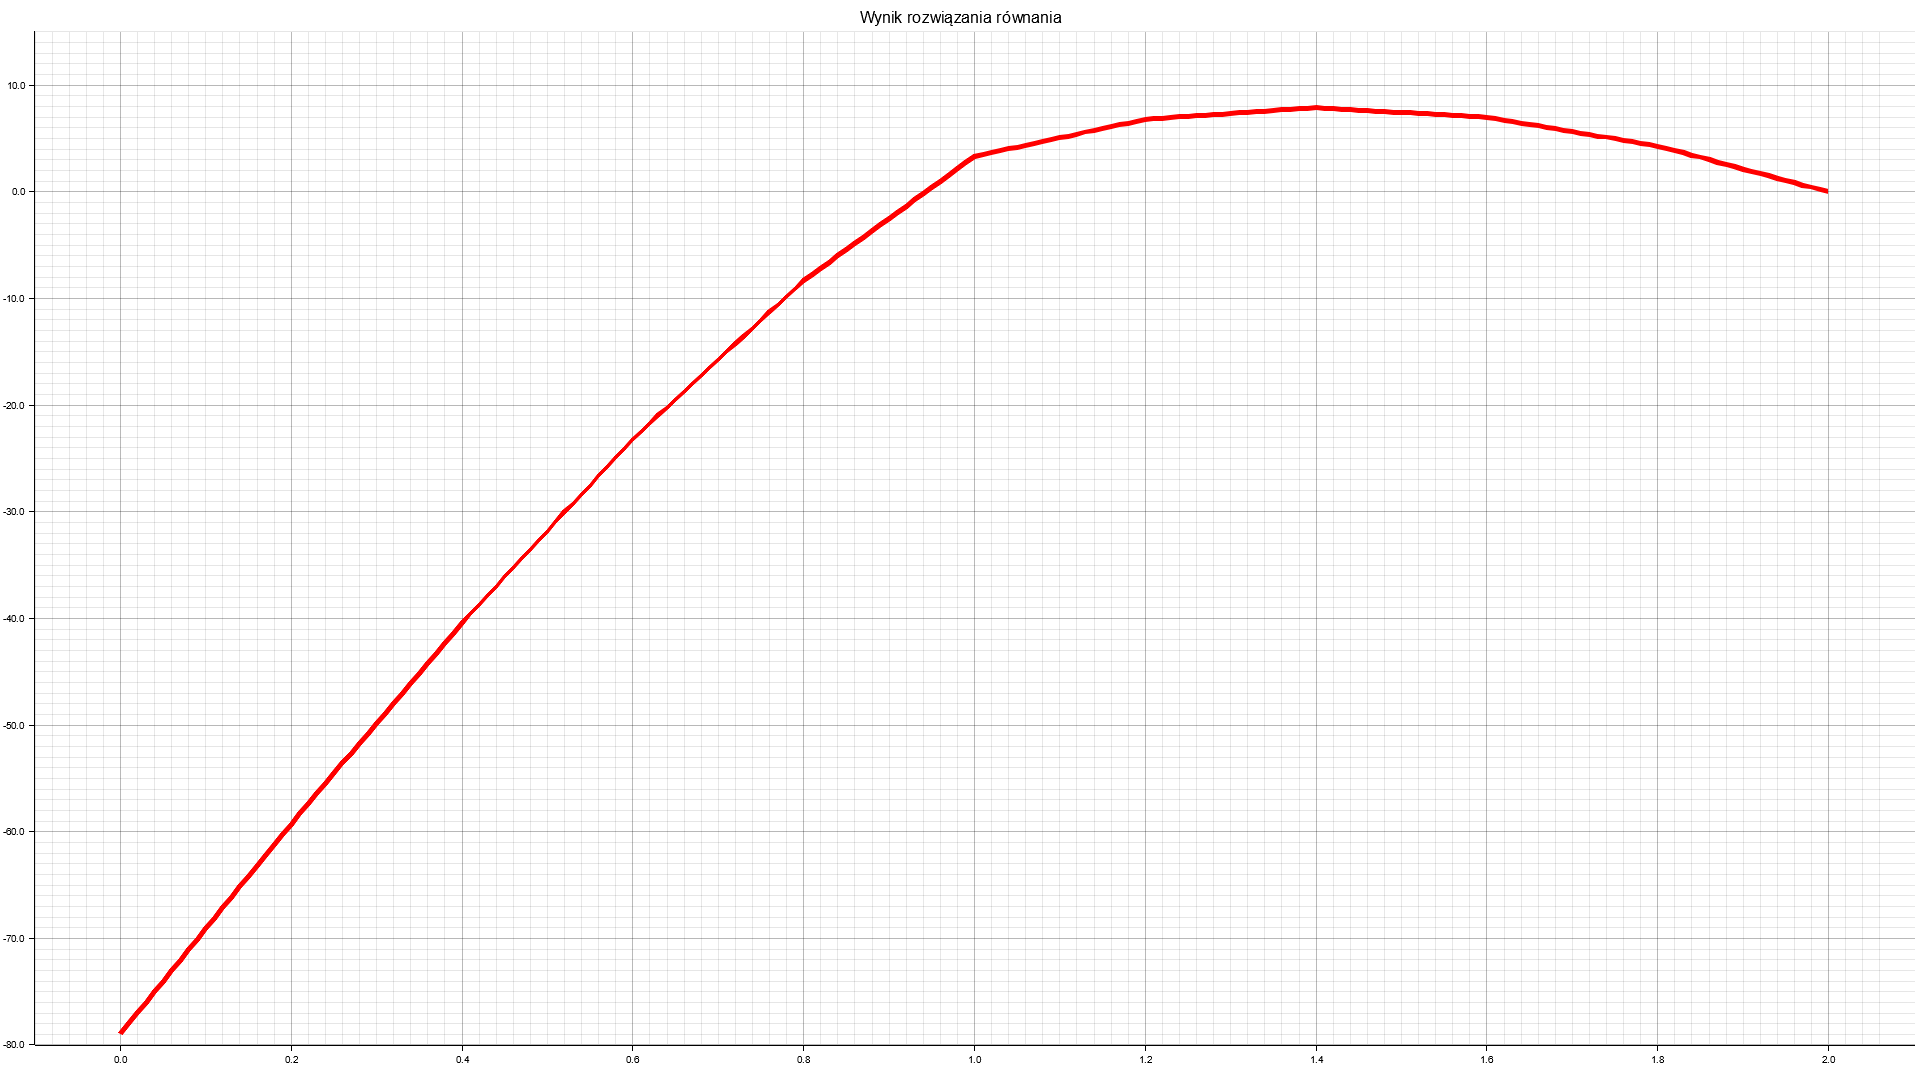
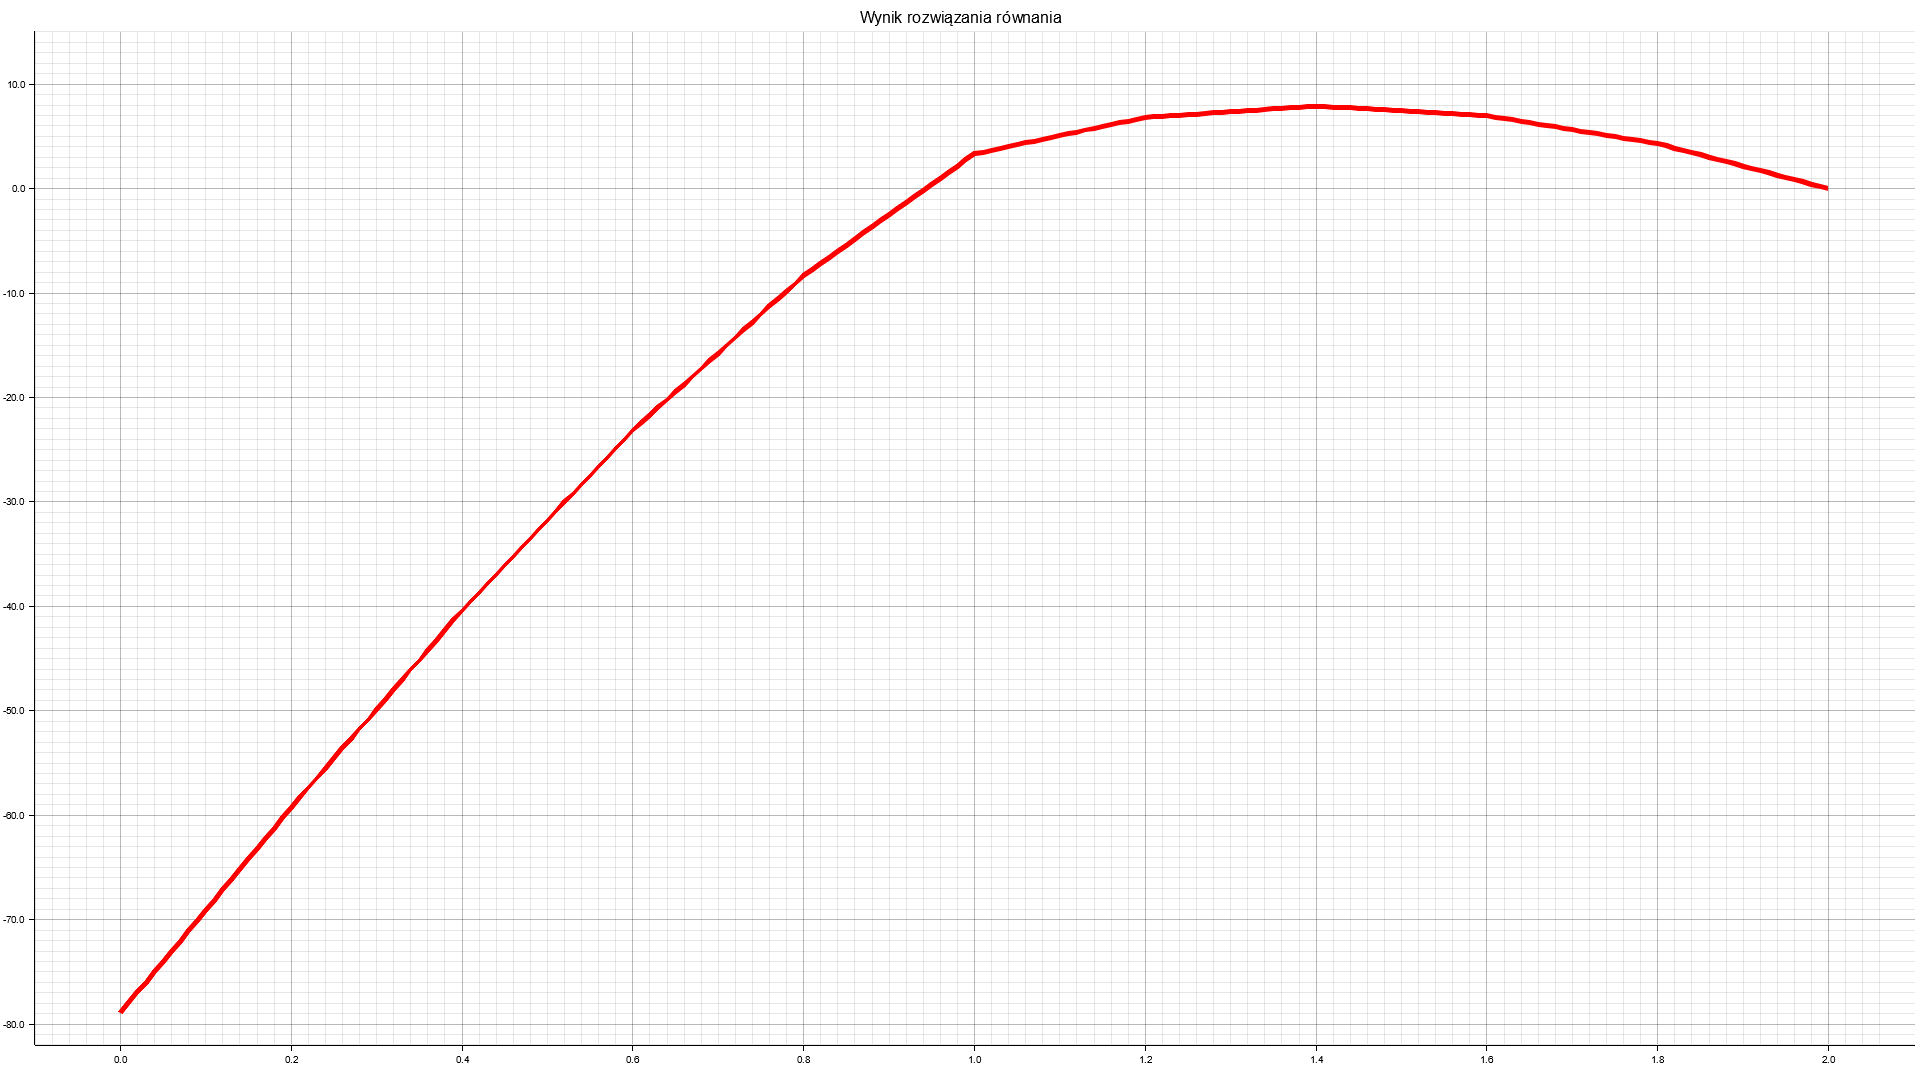
add shift + sprawozdanie

diff --git a/src/main.rs b/src/main.rs
@@ -50,8 +50,8 @@ fn B(u: &Function, du: &Function, ϕ: &Function, dϕ: &Function, q: &GaussLegend
     result
 }
 
-fn L(ϕ: &Function, q: &GaussLegendre) -> f64 {
-    -20.0 * ϕ.get_value(0.0) +
+fn L(ϕ: &Function, q: &GaussLegendre, u_2: f64) -> f64 {
+    -20.0 * ϕ.get_value(0.0) + u_2 * ϕ.get_value(0.0) +
     ϕ.cases_iter()
         .map(|((start, end), f_ϕ)|
                  q.integrate(f64::max(0.0, *start), f64::min(2.0, *end), |x| 100.0*x*f_ϕ(x)))
@@ -70,6 +70,7 @@ fn main() {
     let a = 0.0;
     let b = 2.0;
     let Δ = (b - a)/N as f64;
+    let u_2 = 0.0;
 
     let test_functions = (0..N).map(|k| get_e_k((k as f64)*Δ, Δ)).collect::<Vec<_>>();
     let derivatives_test_functions = (0..N).map(|k| get_de_k((k as f64)*Δ, Δ)).collect::<Vec<_>>();
@@ -84,7 +85,7 @@ fn main() {
                     .map(|(ϕi, dϕi)| B(ϕi, dϕi, ϕj,dϕj, &quad)))
             .flatten()
     );
-    let L_vector = DVector::from_iterator(N, test_functions.iter().map(|ϕj| L(ϕj, &quad)));
+    let L_vector = DVector::from_iterator(N, test_functions.iter().map(|ϕj| L(ϕj, &quad, u_2)));
     let W_vector = B_matrix.lu().solve(&L_vector).unwrap();
 
     chart_drawer::draw_chart_array("Funkcje testujące",
@@ -93,7 +94,7 @@ fn main() {
                                    &test_functions);
 
     let u =
-        Function::new(move |x| W_vector.iter().zip(&test_functions).map(|(w_k, e_k)| w_k*e_k.get_value(x)).sum::<f64>() );
+        Function::new(move |x| W_vector.iter().zip(&test_functions).map(|(w_k, e_k)| w_k*e_k.get_value(x)).sum::<f64>() + u_2);
 
     println!("u(0) = {}", u.get_value(0.0));
     let h = 10e-12;
@@ -102,6 +103,6 @@ fn main() {
 
     chart_drawer::draw_chart_single("Wynik rozwiązania równania",
                                     "equation_result.png",
-                                    -0.1f32..2.1f32, -80.0f32..15.0f32,
+                                    -0.1f32..2.1f32, -82.0f32..15.0f32,
                                     &u);
 }

diff --git a/sprawozdanie/src/sprawozdanie.tex b/sprawozdanie/src/sprawozdanie.tex
@@ -87,11 +87,11 @@ Założenia:
 
   Wracając do początkowego równania przenoszę człony niezależące od $u$, na prawą stronę:
   \[20\phi(0) - u(0)\phi(0) + \int_{0}^{1}u'\phi' dx + \int_{1}^{2}2xu'\phi' dx = \int_{0}^{2}100x\phi dx\]
-  \[-u(0)\phi(0) + \int_{0}^{1}u'\phi' dx + \int_{1}^{2}2xu'\phi' dx = \int_{0}^{2}100x\phi -20\phi(0)dx\]
+  \[-u(0)\phi(0) + \int_{0}^{1}u'\phi' dx + \int_{1}^{2}2xu'\phi' dx = \int_{0}^{2}100x\phi dx -20\phi(0)\]
 
   Niech:
   \[B(u, \phi) = -u(0)\phi(0) + \int_{0}^{1}u'\phi' dx + \int_{1}^{2}2xu'\phi' dx\]
-  \[L(\phi) = \int_{0}^{2}100x\phi -20\phi(0)dx\]
+  \[L(\phi) = \int_{0}^{2}100x\phi dx -20\phi(0)\]
 
   Teraz mogę zapisać sformułowanie słabe (wariacyjne). Niech
   \[ V := \left\{f \in H^1 : f(2) = 0\right\} \]
